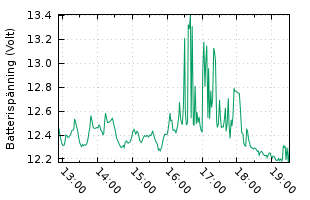
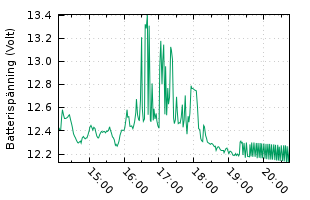
bugfix, solarcell on/off in inf loop

diff --git a/solarcell.py b/solarcell.py
@@ -35,12 +35,12 @@ if(batteryVoltage > 0 and batteryVoltage < 20):
         with SocketIO('localhost', 8000,) as socketIO:
             socketIO.emit('change settings', {'data': "solarcell-latch", 'user': "server@batterymonitor", 'note':"Solcell urkopplad, batteriet 100%"})
 
-    elif(batteryVoltage <= startChargingVoltage and not charging and sunlightIntensity > 200 and settings['manual']==False):
+    elif(batteryVoltage <= startChargingVoltage and not charging and sunlightIntensity > 400 and settings['manual']==False):
 
         with SocketIO('localhost', 8000,) as socketIO:
             socketIO.emit('change settings', {'data': "solarcell-latch", 'user': "server@batterymonitor", 'note':"Solcell inkopplad"})
 
-    elif( sunlightIntensity < 200 and settings['manual']==False):
+    elif( sunlightIntensity < 100 and charging and settings['manual']==False):
         with SocketIO('localhost', 8000,) as socketIO:
             socketIO.emit('change settings', {'data': "solarcell-latch", 'user': "server@batterymonitor", 'note':"Solcell urkopplad, inget solsken"})
 
